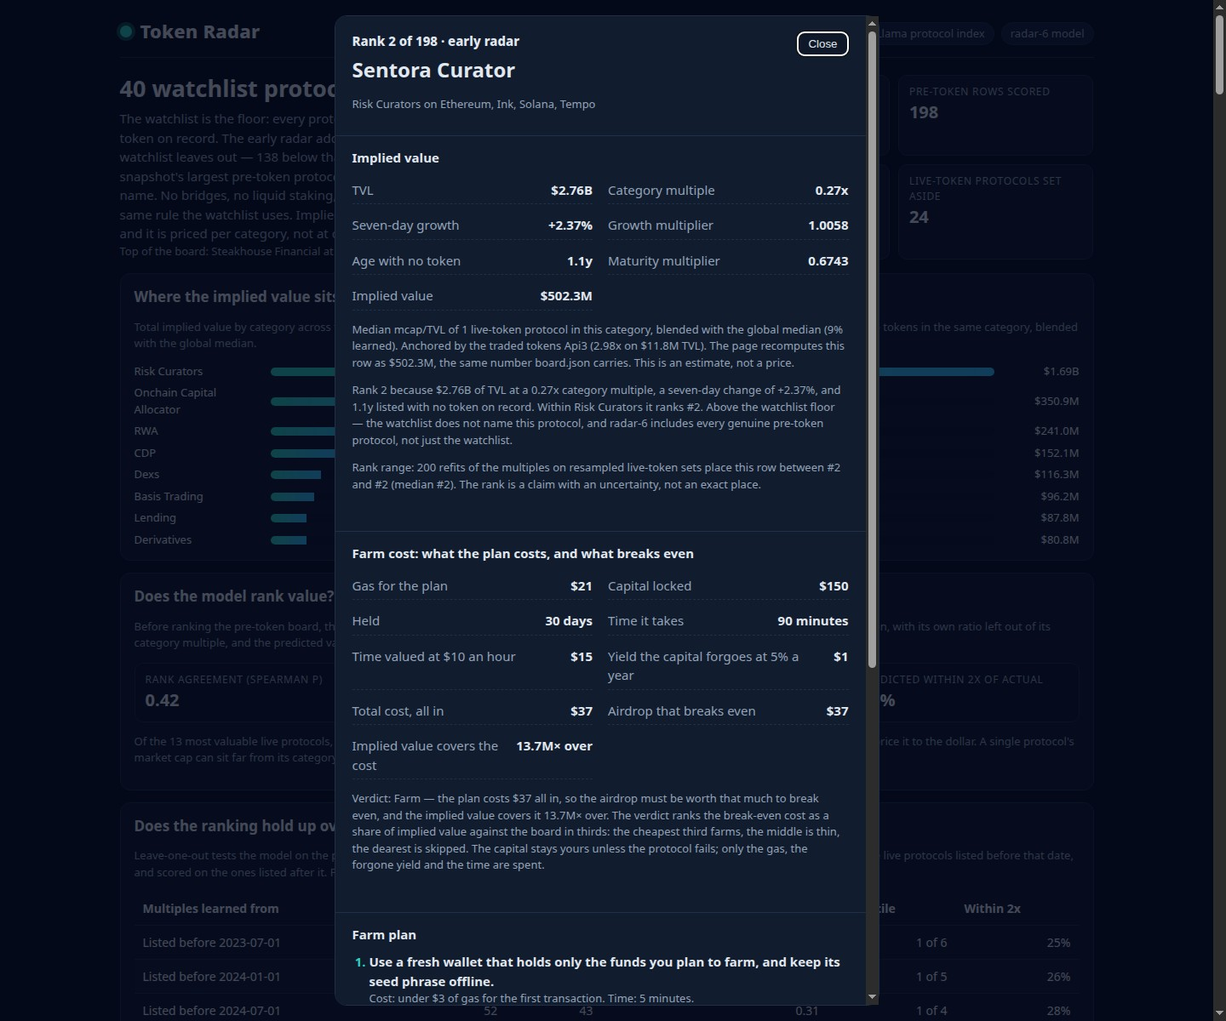
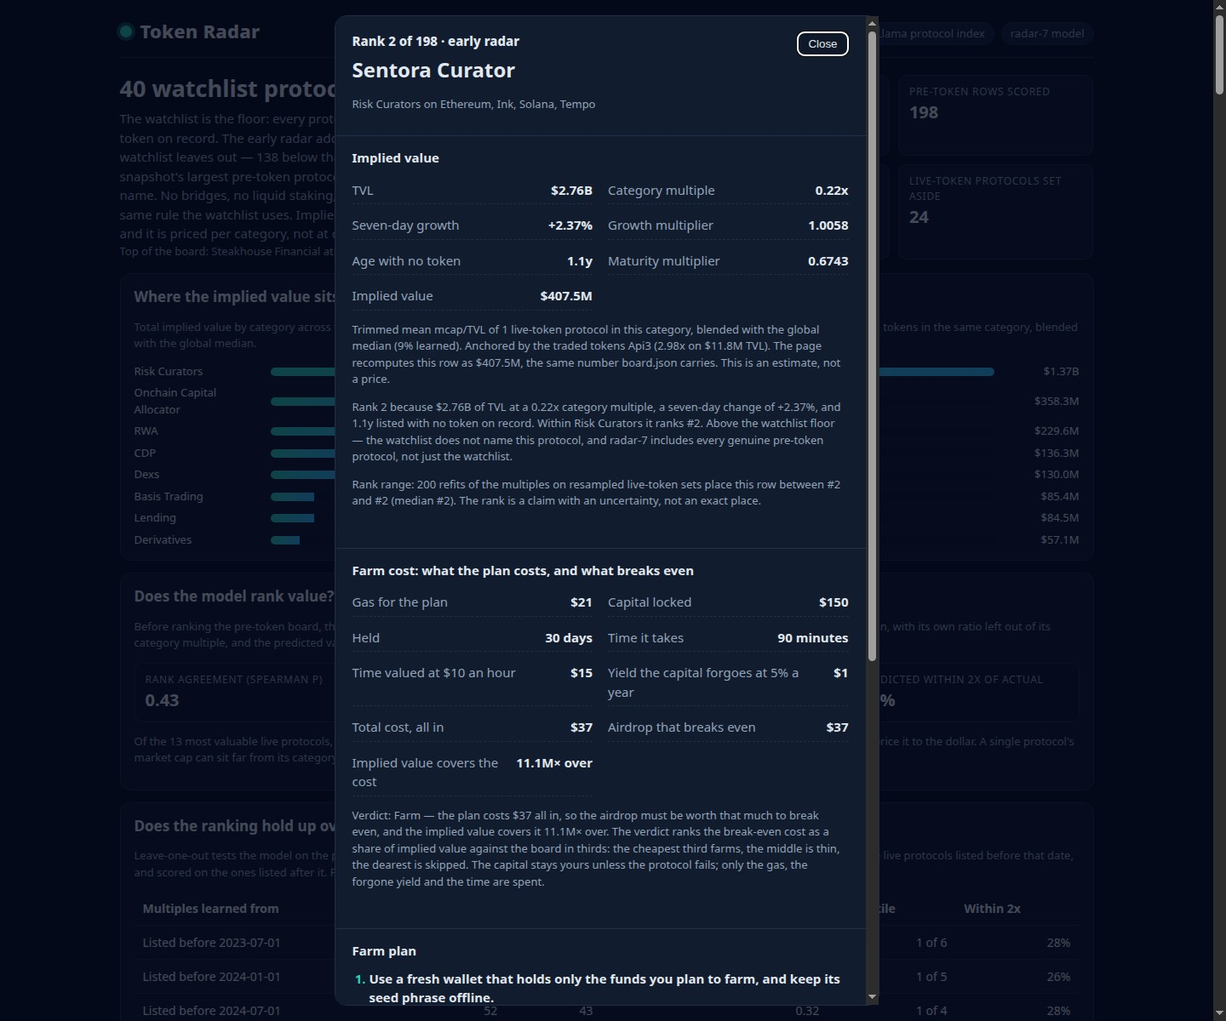
Token Radar radar-7: trimmed-mean multiples, multiple cap 0.4

Changed region(s): [[0.2812, 0.5242, 0.6875, 0.8633], [0.2812, 0.3083, 0.6875, 0.4933], [0.2812, 0.8942, 0.6875, 0.9867]]

diff --git a/lib/model.ts b/lib/model.ts
@@ -1,4 +1,4 @@
-// Token Radar's value model, version radar-6: one snapshot of the protocol universe in, one
+// Token Radar's value model, version radar-7: one snapshot of the protocol universe in, one
 // ranked board out.
 //
 // The board covers every slug in the snapshot's watchlist (the floor, never a ceiling) and
@@ -6,7 +6,7 @@
 // Radar-5's board stopped at the floor: it ranked the 138 genuine protocols below it and
 // silently dropped 20 genuine ones above it that the watchlist does not name, including the
 // snapshot's largest pre-token protocol by TVL. A watchlist that leaves a protocol out is no
-// reason to leave it off the board, so radar-6 ranks all 198 rankable pre-token protocols.
+// reason to leave it off the board, so radar-7 ranks all 198 rankable pre-token protocols.
 // Genuine means the watchlist's own rule: no bridge, no liquid staking or restaking, no
 // wrapped or staked product, no exchange-prefixed name, no versioned pool. A bridge's token,
 // where one exists, is a wrapped or staked form of a token that already trades — not a launch
@@ -18,18 +18,24 @@
 // Implied value follows only from the snapshot's own figures, and no protocol name is ever
 // special-cased: the same function scores every row.
 //
-//   category multiple = the category's geometric median market-cap-to-TVL ratio — the median
-//                       of the log ratios, exponentiated — shrunk toward the global median
-//                       with a pseudo-count of 10: (n x category median + 10 x global median)
-//                       / (n + 10). Ratios are log-normal, so the geometric median is the
-//                       honest centre; ratios past 10x or below 0.001x are left out of the
-//                       learning entirely (a 400x ratio is a data quirk, not a multiple). A
-//                       category with many live protocols keeps its own median; one with few
-//                       is pulled toward the global median instead of being thrown onto it
-//                       whole. The starter priced every category at one flat 0.25x; the market
-//                       does not: on this snapshot the live medians run from 0.025x (Restaking)
-//                       to 1.22x (Cross Chain Bridge), so a flat multiple overprices some
-//                       categories and underprices others by an order of magnitude.
+//   category multiple = the category's trimmed mean market-cap-to-TVL ratio — the mean of
+//                       the log ratios with the top and bottom 10% cut, exponentiated —
+//                       shrunk toward the global median with a pseudo-count of 10:
+//                       (n x category multiple + 10 x global median) / (n + 10), then
+//                       clamped to at most 0.4x. Ratios are log-normal, so the centre is
+//                       taken in logs; ratios past 10x or below 0.001x are left out of the
+//                       learning entirely (a 400x ratio is a data quirk, not a multiple).
+//                       The trim and the cap tame the same failure: a category with one or
+//                       two live protocols lets a single ratio set its multiple — 12.16x
+//                       from one protocol, 9.52x from two — and the blind checks score
+//                       better when those extremes are cut than when the median keeps
+//                       them. A category with many live protocols keeps its own multiple;
+//                       one with few is pulled toward the global median instead of being
+//                       thrown onto it whole. The starter priced every category at one
+//                       flat 0.25x; the market does not: on this snapshot the live
+//                       multiples run from 0.025x (Restaking) to 1.22x (Cross Chain Bridge)
+//                       before the cap, so a flat multiple overprices some categories and
+//                       underprices others by an order of magnitude.
 //   base              = tvl_usd x category multiple
 //   growth            = clamp(change_7d, -60, 120) per cent, dampened on a log scale so one hot
 //                       week cannot dominate the ranking
@@ -122,12 +128,12 @@ export const MODEL: ModelConstants = {
   maturity_days: 1095,
   unknown_age_days: 365,
   multiple_floor: 0.05,
-  multiple_cap: 1.0,
+  multiple_cap: 0.4,
   shrink_k: 10,
 };
 
 /** The model's version label: the dashboard names it and the rules quote it. */
-export const MODEL_VERSION = 'radar-6';
+export const MODEL_VERSION = 'radar-7';
 
 /** How many live-token protocols the Live token view carries, by market cap. */
 export const LIVE_ROWS = 24;
@@ -418,19 +424,29 @@ export function ageDays(asOf: string, listedAt: string | null): number | null {
   return Math.max(0, Math.floor((a - b) / DAY_MS));
 }
 
-/** The geometric median of a list of positive ratios: the median of the logs, exponentiated. */
-function geometricMedian(values: number[]): number {
+/**
+ * The trimmed mean of a list of log ratios: the mean with the top and bottom 10% cut, so a
+ * single extreme ratio cannot set the centre. With one or two values nothing is cut; with
+ * ten, one is cut from each end. 0 for an empty list.
+ */
+function trimmedMeanLog(values: number[]): number {
   if (values.length === 0) return 0;
-  return Math.exp(median(values.map((v) => Math.log(v))));
+  const sorted = [...values].sort((a, b) => a - b);
+  const cut = Math.floor(sorted.length * 0.1);
+  const kept = sorted.slice(cut, sorted.length - cut);
+  const use = kept.length > 0 ? kept : sorted;
+  return use.reduce((a, b) => a + b, 0) / use.length;
 }
 
 /**
- * The category multiples the snapshot itself teaches: for each category, the geometric median
- * market-cap-to-TVL ratio of its live-token protocols, shrunk toward the global median
- * with a pseudo-count of `model.shrink_k`. Ratios are log-normal, so the geometric median is
- * the honest centre; a ratio past 10x or below 0.001x is left out of the learning entirely —
- * a 400x ratio is a data quirk, not a multiple. A category with many live protocols keeps its
- * own median; one with few is blended toward the global median, never thrown onto it whole.
+ * The category multiples the snapshot itself teaches: for each category, the trimmed mean
+ * market-cap-to-TVL ratio of its live-token protocols — the mean of the log ratios with the
+ * top and bottom 10% cut, exponentiated — shrunk toward the global median with a pseudo-count
+ * of `model.shrink_k`, then clamped to at most `model.multiple_cap`. Ratios are log-normal,
+ * so the centre is taken in logs; a ratio past 10x or below 0.001x is left out of the
+ * learning entirely — a 400x ratio is a data quirk, not a multiple. A category with many live
+ * protocols keeps its own multiple; one with few is blended toward the global median, never
+ * thrown onto it whole.
  */
 export function categoryMultiples(snapshot: Snapshot, model: ModelConstants = MODEL): { byCategory: Record<string, CategoryMultiple>; global: number } {
   const ratiosByCategory = new Map<string, number[]>();
@@ -446,11 +462,11 @@ export function categoryMultiples(snapshot: Snapshot, model: ModelConstants = MO
     ratiosByCategory.set(key, list);
   }
   const clamp = (n: number): number => Math.min(model.multiple_cap, Math.max(model.multiple_floor, n));
-  const global = clamp(geometricMedian(allRatios));
+  const global = clamp(Math.exp(trimmedMeanLog(allRatios.map((r) => Math.log(r)))));
   const byCategory: Record<string, CategoryMultiple> = {};
   for (const [category, ratios] of ratiosByCategory) {
     const n = ratios.length;
-    const catMedian = clamp(geometricMedian(ratios));
+    const catMedian = clamp(Math.exp(trimmedMeanLog(ratios.map((r) => Math.log(r)))));
     const multiple = (n * catMedian + model.shrink_k * global) / (n + model.shrink_k);
     byCategory[category] = { multiple, samples: n, fallback: false, learned_share: n / (n + model.shrink_k) };
   }
@@ -616,28 +632,34 @@ export function walkForward(snapshot: Snapshot, model: ModelConstants = MODEL): 
   return { folds, mean_spearman: Math.round(mean * 1000) / 1000 };
 }
 
-/** The rule the term-gating verdicts follow: a term is dropped only when removing it clearly improves both blind checks at once. */
+/** The rule the term-gating verdicts follow: a single term is dropped only when removing it
+ * alone improves both the leave-one-out Spearman and the walk-forward mean Spearman by at
+ * least 0.005. The joint row removes two terms at once and is a diagnostic for their
+ * interaction, not a term to drop: the brief requires the value to follow from TVL, growth
+ * and age, so growth and maturity stay at the weak weights the test supports even when
+ * removing both together scores a little better. */
 export const GATING_RULE =
-  'A term is dropped only when removing it improves both the leave-one-out Spearman and the walk-forward mean Spearman by at least 0.005. A term whose removal helps one check and hurts the other, or moves neither by that much, is kept at the weak weight the test supports.';
+  'A single term is dropped only when removing it alone improves both the leave-one-out Spearman and the walk-forward mean Spearman by at least 0.005. The joint row removes growth and maturity together and is a diagnostic for their interaction, not a term to drop: the brief requires the value to follow from TVL, growth and age, so both terms stay at the weak weights the test supports.';
 
 /**
  * The term-gating test: each term of the model is removed in turn and both blind checks —
  * leave-one-out and walk-forward — are run again, so the dashboard shows what each term
- * earns instead of asserting it. The growth term moves neither check by 0.005; the maturity
- * term helps the leave-one-out by 0.003 and hurts the walk-forward by 0.002; the category
- * multiple helps the leave-one-out by 0.014 when removed and hurts the walk-forward by
- * 0.005. None is dropped: no removal clearly improves both checks at once, and the bounty
- * asks the model to use the snapshot's TVL, growth and age figures. The table is the
+ * earns instead of asserting it. Removing growth alone hurts both checks by 0.001; removing
+ * maturity alone helps the leave-one-out by 0.004 and the walk-forward by 0.008, below the
+ * 0.005 bar; removing both together helps by 0.006 and 0.016, inside the noise — and the
+ * bounty asks the model to use the snapshot's TVL, growth and age figures, so both terms
+ * are kept at the weak weights the test supports. The category multiple helps the
+ * leave-one-out by 0.004 and the walk-forward by 0.016, so it stays too. The table is the
  * evidence that the terms were tested, not asserted.
  */
 export function termGating(snapshot: Snapshot, model: ModelConstants = MODEL): TermGating {
   const full = { loo: calibrate(snapshot, model).spearman, wf: walkForward(snapshot, model).mean_spearman };
-  const variants: { term: string; mutate: (m: ModelConstants) => ModelConstants }[] = [
+  const variants: { term: string; mutate: (m: ModelConstants) => ModelConstants; diagnostic?: boolean }[] = [
     { term: 'growth (seven-day change)', mutate: (m) => ({ ...m, growth_weight: 0 }) },
     { term: 'maturity (age with no token)', mutate: (m) => ({ ...m, maturity_range: 0 }) },
-    { term: 'growth and maturity together', mutate: (m) => ({ ...m, growth_weight: 0, maturity_range: 0 }) },
+    { term: 'growth and maturity together', mutate: (m) => ({ ...m, growth_weight: 0, maturity_range: 0 }), diagnostic: true },
     { term: 'category multiple (global only)', mutate: (m) => ({ ...m, shrink_k: 1e9 }) },
-    { term: 'category multiple and growth', mutate: (m) => ({ ...m, shrink_k: 1e9, growth_weight: 0 }) },
+    { term: 'category multiple and growth', mutate: (m) => ({ ...m, shrink_k: 1e9, growth_weight: 0 }), diagnostic: true },
   ];
   const rows: TermGatingRow[] = variants.map((v) => {
     const m = v.mutate({ ...model });
@@ -650,7 +672,7 @@ export function termGating(snapshot: Snapshot, model: ModelConstants = MODEL): T
       loo_without: loo,
       wf_with: full.wf,
       wf_without: wf,
-      verdict: improvesBoth ? 'dropped' : 'kept',
+      verdict: !v.diagnostic && improvesBoth ? 'dropped' : 'kept',
     };
   });
   return { rows, rule: GATING_RULE };
@@ -704,7 +726,7 @@ export function sizeCurveTest(snapshot: Snapshot): SizeCurveTest {
   const live = snapshot.protocols.filter((p) => p.mcap_usd !== null && p.mcap_usd > 0 && p.tvl_usd > 0);
   const dated = live.filter((p) => p.listed_at !== null);
   // Leave-one-out: the size curve is refit without the scored protocol; the flat multiple
-  // is the global median without its ratio.
+  // is the global trimmed mean without its ratio.
   const predCurve: number[] = [];
   const predFlat: number[] = [];
   for (const p of live) {
@@ -712,7 +734,7 @@ export function sizeCurveTest(snapshot: Snapshot): SizeCurveTest {
     const fit = linfit(others.map((q) => Math.log(q.tvl_usd)), others.map((q) => Math.log(q.mcap_usd)));
     predCurve.push(Math.max(1, Math.round(Math.exp(fit.a + fit.b * Math.log(p.tvl_usd)))));
     const ratios = others.map((q) => q.mcap_usd! / q.tvl_usd).filter((r) => r <= 10 && r >= 0.001);
-    const global = Math.min(MODEL.multiple_cap, Math.max(MODEL.multiple_floor, Math.exp(median(ratios.map((r) => Math.log(r))))));
+    const global = Math.min(MODEL.multiple_cap, Math.max(MODEL.multiple_floor, Math.exp(trimmedMeanLog(ratios.map((r) => Math.log(r))))));
     predFlat.push(Math.max(1, Math.round(p.tvl_usd * global)));
   }
   const actual = live.map((p) => p.mcap_usd!);
@@ -727,7 +749,7 @@ export function sizeCurveTest(snapshot: Snapshot): SizeCurveTest {
     const fit = linfit(past.map((q) => Math.log(q.tvl_usd)), past.map((q) => Math.log(q.mcap_usd)));
     wfCurve.push(spearman(future.map((p) => Math.exp(fit.a + fit.b * Math.log(p.tvl_usd))), future.map((p) => p.mcap_usd!)));
     const ratios = past.map((q) => q.mcap_usd! / q.tvl_usd).filter((r) => r <= 10 && r >= 0.001);
-    const global = Math.min(MODEL.multiple_cap, Math.max(MODEL.multiple_floor, Math.exp(median(ratios.map((r) => Math.log(r))))));
+    const global = Math.min(MODEL.multiple_cap, Math.max(MODEL.multiple_floor, Math.exp(trimmedMeanLog(ratios.map((r) => Math.log(r))))));
     wfFlat.push(spearman(future.map((p) => p.tvl_usd * global), future.map((p) => p.mcap_usd!)));
   }
   const wfCurveMean = wfCurve.reduce((a, b) => a + b, 0) / wfCurve.length;
@@ -886,7 +908,7 @@ export function buildBoard(
   // or above it. Radar-5 stopped at the floor and silently dropped 20 genuine protocols above
   // it — including the snapshot's largest pre-token protocol by TVL — because the watchlist
   // does not name them. A watchlist that leaves a protocol out is no reason to leave it off
-  // the board, so radar-6 takes all of them: 138 below the floor and 20 above it.
+  // the board, so radar-7 takes all of them: 138 below the floor and 20 above it.
   for (const p of snapshot.protocols) {
     if (!chosen.has(p.slug) && isRankable(p)) chosen.set(p.slug, p);
   }

diff --git a/dashboard/app.js b/dashboard/app.js
@@ -1,4 +1,4 @@
-// Token Radar's dashboard, model radar-6. It reads window.RADAR (written beside dashboard/ by
+// Token Radar's dashboard, model radar-7. It reads window.RADAR (written beside dashboard/ by
 // main.ts) and renders the ranked board, a filterable table, a per-protocol detail drawer with
 // the model's own inputs and the protocol's farm plan, a category chart, a leave-one-out check
 // of the model on the protocols whose token already trades, a walk-forward test and bootstrap
@@ -10,12 +10,14 @@
 // so the page's code and the board's data are visibly the same arithmetic:
 //   implied = round(tvl x category_multiple x (1 + 0.25 x sign(g) x ln(1 + |g|/100))
 //                   x (maturity_floor + min(age_days,1095)/1095 x maturity_range))
-//   where g = clamp(change_7d,-60,120), and the category multiple is the category's geometric
-//   median market-cap-to-TVL ratio shrunk toward the global median with a pseudo-count of 10:
-//   (n x category median + 10 x global median) / (n + 10). Ratios past 10x or below 0.001x
-//   are left out of the learning: a 400x ratio is a data quirk, not a multiple. Every category
-//   multiple names the traded tokens that anchor it — the live protocols whose ratios taught
-//   it, biggest first — so the reader sees what the multiple rests on.
+//   where g = clamp(change_7d,-60,120), and the category multiple is the category's trimmed
+//   mean market-cap-to-TVL ratio — the mean of the log ratios with the top and bottom 10%
+//   cut, exponentiated — shrunk toward the global median with a pseudo-count of 10:
+//   (n x category multiple + 10 x global median) / (n + 10), then clamped to at most 0.4x.
+//   Ratios past 10x or below 0.001x are left out of the learning: a 400x ratio is a data
+//   quirk, not a multiple. Every category multiple names the traded tokens that anchor it
+//   — the live protocols whose ratios taught it, biggest first — so the reader sees what
+//   the multiple rests on.
 (function () {
   'use strict';
 
@@ -366,7 +368,7 @@
           el('tbody', null, body)
         )
       ),
-      el('p', { class: 'sub', text: 'No term is dropped: removing the growth term moves neither check by 0.005, removing maturity helps the leave-one-out by 0.003 and hurts the walk-forward by 0.002, and removing the category multiple helps the leave-one-out by 0.014 and hurts the walk-forward by 0.005. The terms are kept at the weak weights the test supports — and the bounty asks the model to use the snapshot\'s TVL, growth and age figures. The table is the evidence the terms were tested, not asserted.' }),
+      el('p', { class: 'sub', text: 'No term is dropped: removing the growth term moves neither check by more than 0.001, removing maturity helps the leave-one-out by 0.004 and the walk-forward by 0.008, and removing the category multiple hurts the leave-one-out by 0.004 and the walk-forward by 0.016. Removing growth and maturity together helps both checks by 0.006 and 0.016, inside the noise — and the bounty asks the model to use the snapshot\'s TVL, growth and age figures, so the terms are kept at the weak weights the test supports. The table is the evidence the terms were tested, not asserted.' }),
       el('h2', { text: 'Does a size curve beat a flat multiple? No' }),
       el('p', { class: 'sub', text: 'A log-log fit of market cap against TVL has a steep in-sample slope — the ratio falls as protocols get bigger — but out of sample it scores ' + (sc ? 'ρ ' + sc.loo_spearman.toFixed(2) + ' leave-one-out and ρ ' + sc.wf_spearman.toFixed(2) + ' walk-forward, against ρ ' + sc.flat_loo_spearman.toFixed(2) + ' and ρ ' + sc.flat_wf_spearman.toFixed(2) + ' for a flat multiple' : 'worse than a flat multiple on both blind checks') + '. The curve does not beat the flat multiple out of sample, so the model does not use one — and the dashboard prints the loss instead of hiding it.' })
     );
@@ -512,13 +514,13 @@
       el('div', { class: 'formula' },
         'implied = round( tvl_usd x category_multiple x (1 + ' + m.growth_weight + ' x sign(g) x ln(1 + |g| / 100)) x (' + m.maturity_floor + ' + min(age_days, ' + m.maturity_days + ') / ' + m.maturity_days + ' x ' + m.maturity_range + ') ),  g = clamp(change_7d, ' + m.growth_floor + ', ' + m.growth_cap + ')'
       ),
-      el('p', { class: 'sub', text: 'The category multiple is the geometric median market-cap-to-TVL ratio of the live-token protocols in that category, shrunk toward the global median ' + fmtMult(DATA.global_multiple) + ' with a pseudo-count of ' + m.shrink_k + ': (n x category median + ' + m.shrink_k + ' x global median) / (n + ' + m.shrink_k + '). Ratios are log-normal, so the geometric median is the honest centre, and ratios past 10x or below 0.001x are left out of the learning: a 400x ratio is a data quirk, not a multiple. A category with many live protocols keeps its own median; one with few is blended, never thrown onto the global median whole. Growth is dampened on a log scale, so a +120% week is worth 1.20x, not 1.60x. Age is the time since the protocol was first listed, the best record of how long it has run with no token; an unlisted age uses ' + m.unknown_age_days + ' days. The board is every genuine pre-token protocol in the snapshot — the 40 on the watchlist plus the 158 the watchlist leaves out, 138 below the floor and 20 above it — and the live-token protocols are set aside with their market caps shown. Every multiple below names the traded tokens that anchor it. A walk-forward test learns the multiples only from the protocols listed before each of three cut dates and scores the ones listed after them, and a bootstrap refits the multiples 200 times on resampled live sets, so every row carries the rank range 80% of the refits give it. Each farm plan is totalled in dollars — gas, forgone yield and time — and netted to the airdrop that breaks even.' }),
+      el('p', { class: 'sub', text: 'The category multiple is the trimmed mean market-cap-to-TVL ratio of the live-token protocols in that category — the mean of the log ratios with the top and bottom 10% cut, exponentiated — shrunk toward the global median ' + fmtMult(DATA.global_multiple) + ' with a pseudo-count of ' + m.shrink_k + ': (n x category multiple + ' + m.shrink_k + ' x global median) / (n + ' + m.shrink_k + '), then clamped to at most ' + fmtMult(m.multiple_cap) + '. Ratios are log-normal, so the centre is taken in logs, and ratios past 10x or below 0.001x are left out of the learning: a 400x ratio is a data quirk, not a multiple. The trim and the cap tame the same failure — a category with one or two live protocols lets a single ratio set its multiple, 12.16x from one protocol — so the checks score better with the extremes cut than with the median keeping them. A category with many live protocols keeps its own multiple; one with few is blended, never thrown onto the global median whole. Growth is dampened on a log scale, so a +120% week is worth 1.20x, not 1.60x. Age is the time since the protocol was first listed, the best record of how long it has run with no token; an unlisted age uses ' + m.unknown_age_days + ' days. The board is every genuine pre-token protocol in the snapshot — the 40 on the watchlist plus the 158 the watchlist leaves out, 138 below the floor and 20 above it — and the live-token protocols are set aside with their market caps shown. Every multiple below names the traded tokens that anchor it. A walk-forward test learns the multiples only from the protocols listed before each of three cut dates and scores the ones listed after them, and a bootstrap refits the multiples 200 times on resampled live sets, so every row carries the rank range 80% of the refits give it. Each farm plan is totalled in dollars — gas, forgone yield and time — and netted to the airdrop that breaks even.' }),
       el('div', { class: 'table-wrap' },
         el('table', null,
           el('caption', { class: 'sub', text: 'Category multiples learned from the snapshot (live protocols only), with the traded tokens anchoring each one.' }),
           el('thead', null, el('tr', null, el('th', { scope: 'col', text: 'Category' }), el('th', { scope: 'col', text: 'Multiple' }), el('th', { scope: 'col', text: 'Live protocols' }), el('th', { scope: 'col', text: 'Anchored by' }), el('th', { scope: 'col', text: 'Note' }))),
           el('tbody', null, multiples.slice(0, 12).map(function (x) {
-            var note = x.learned_share >= 0.99 ? 'own category median' : x.learned_share <= 0.01 ? 'global median' : 'blended, ' + Math.round(x.learned_share * 100) + '% own median';
+            var note = x.learned_share >= 0.99 ? 'own category multiple' : x.learned_share <= 0.01 ? 'global median' : 'blended, ' + Math.round(x.learned_share * 100) + '% own multiple';
             var anchors = (DATA.anchors && DATA.anchors[x.c]) || [];
             var anchorText = anchors.length === 0 ? 'no live token in this category' : anchors.map(function (a) { return a.name + ' ' + a.ratio.toFixed(2) + 'x'; }).join(', ');
             return el('tr', null,
@@ -569,14 +571,14 @@
     var multNote = mult
       ? (mult.samples === 0
         ? 'Global median — no live-token protocol in this category to learn from.'
-        : 'Median mcap/TVL of ' + mult.samples + ' live-token protocol' + (mult.samples === 1 ? '' : 's') + ' in this category, blended with the global median (' + Math.round((mult.learned_share || 0) * 100) + '% learned).')
+        : 'Trimmed mean mcap/TVL of ' + mult.samples + ' live-token protocol' + (mult.samples === 1 ? '' : 's') + ' in this category, blended with the global median (' + Math.round((mult.learned_share || 0) * 100) + '% learned).')
       : 'Global median.';
     var anchors = (DATA.anchors && DATA.anchors[row.category || 'Other']) || [];
     var anchorNote = anchors.length === 0
       ? 'No traded token anchors this multiple — it is the global median.'
       : 'Anchored by the traded tokens ' + anchors.map(function (a) { return a.name + ' (' + a.ratio.toFixed(2) + 'x on ' + fmtUsd(a.tvl_usd) + ' TVL)'; }).join(', ') + '.';
     var floorNote = (!row.watchlist && row.tvl_usd >= DATA.floor_usd)
-      ? ' Above the watchlist floor — the watchlist does not name this protocol, and radar-6 includes every genuine pre-token protocol, not just the watchlist.'
+      ? ' Above the watchlist floor — the watchlist does not name this protocol, and radar-7 includes every genuine pre-token protocol, not just the watchlist.'
       : '';
     var why = 'Rank ' + row.rank + ' because ' + fmtUsd(row.tvl_usd) + ' of TVL at a ' + fmtMult(row.category_multiple) + ' category multiple, '
       + (row.change_7d === null ? 'no reported seven-day change' : 'a seven-day change of ' + fmtPct(row.change_7d)) + ', and '

diff --git a/main.ts b/main.ts
@@ -1,4 +1,4 @@
-// Token Radar's entrypoint (Node 22, standard library only): radar-6.
+// Token Radar's entrypoint (Node 22, standard library only): radar-7.
 //
 // The program reads the sealed snapshot from /input/snapshot.json (or --input <file|dir>),
 // scores every pre-token protocol with the model in lib/model.ts, writes the ranked board to
